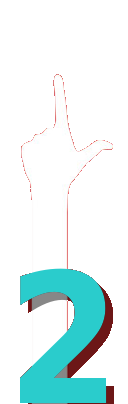
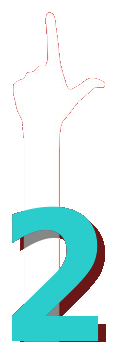
fix(ui): Counting-Fingers-Assets auf Content mit gleichem Padding zuschneiden
Entfernt die große transparente Kopfzone der PNGs und setzt CSS-Padding ringsum gleichmäßig, damit der Primary-Hintergrund eng an der Hand sitzt.

diff --git a/apps/frontend/src/app/shared/countdown-fingers/countdown-fingers.component.ts b/apps/frontend/src/app/shared/countdown-fingers/countdown-fingers.component.ts
@@ -90,13 +90,13 @@ const FINGER_IMAGES: Record<number, string> = {
       }
 
       .countdown-fingers--small {
-        /* Schmale Kontrastfläche nur um die Hand, nicht volle Viewport-/Spaltenbreite */
-        padding: 0.2rem 0.3rem 0;
-        border-radius: var(--mat-sys-corner-small, 8px) var(--mat-sys-corner-small, 8px) 0 0;
+        /* Schmale Kontrastfläche nur um die Hand, ringsum gleiches Padding */
+        padding: 0.35rem;
+        border-radius: var(--mat-sys-corner-small, 8px);
         background: light-dark(var(--mat-sys-primary), transparent);
 
         .countdown-fingers__img {
-          /* Kompakt unten links; Höhe folgt dem hohen PNG-Aspect (≈3.15:1). */
+          /* Kompakt unten links; Assets sind auf Content + gleiches Padding zugeschnitten. */
           width: 48px;
           height: auto;
         }

diff --git a/apps/frontend/src/app/shared/countdown-fingers/countdown-fingers.component.spec.ts b/apps/frontend/src/app/shared/countdown-fingers/countdown-fingers.component.spec.ts
@@ -51,7 +51,7 @@ describe('CountdownFingersComponent', () => {
     expect(styles).toMatch(
       /countdown-fingers--small[\s\S]*?background:\s*light-dark\(\s*var\(--mat-sys-primary\),\s*transparent\s*\)/,
     );
-    expect(styles).toMatch(/padding:\s*0\.2rem 0\.3rem 0/);
+    expect(styles).toMatch(/padding:\s*0\.35rem/);
     expect(styles).toMatch(/countdown-fingers--small[\s\S]*?width:\s*48px/);
     expect(styles).toMatch(
       /countdown-fingers--large[\s\S]*?background:\s*light-dark\(\s*var\(--mat-sys-primary\),\s*transparent\s*\)/,
